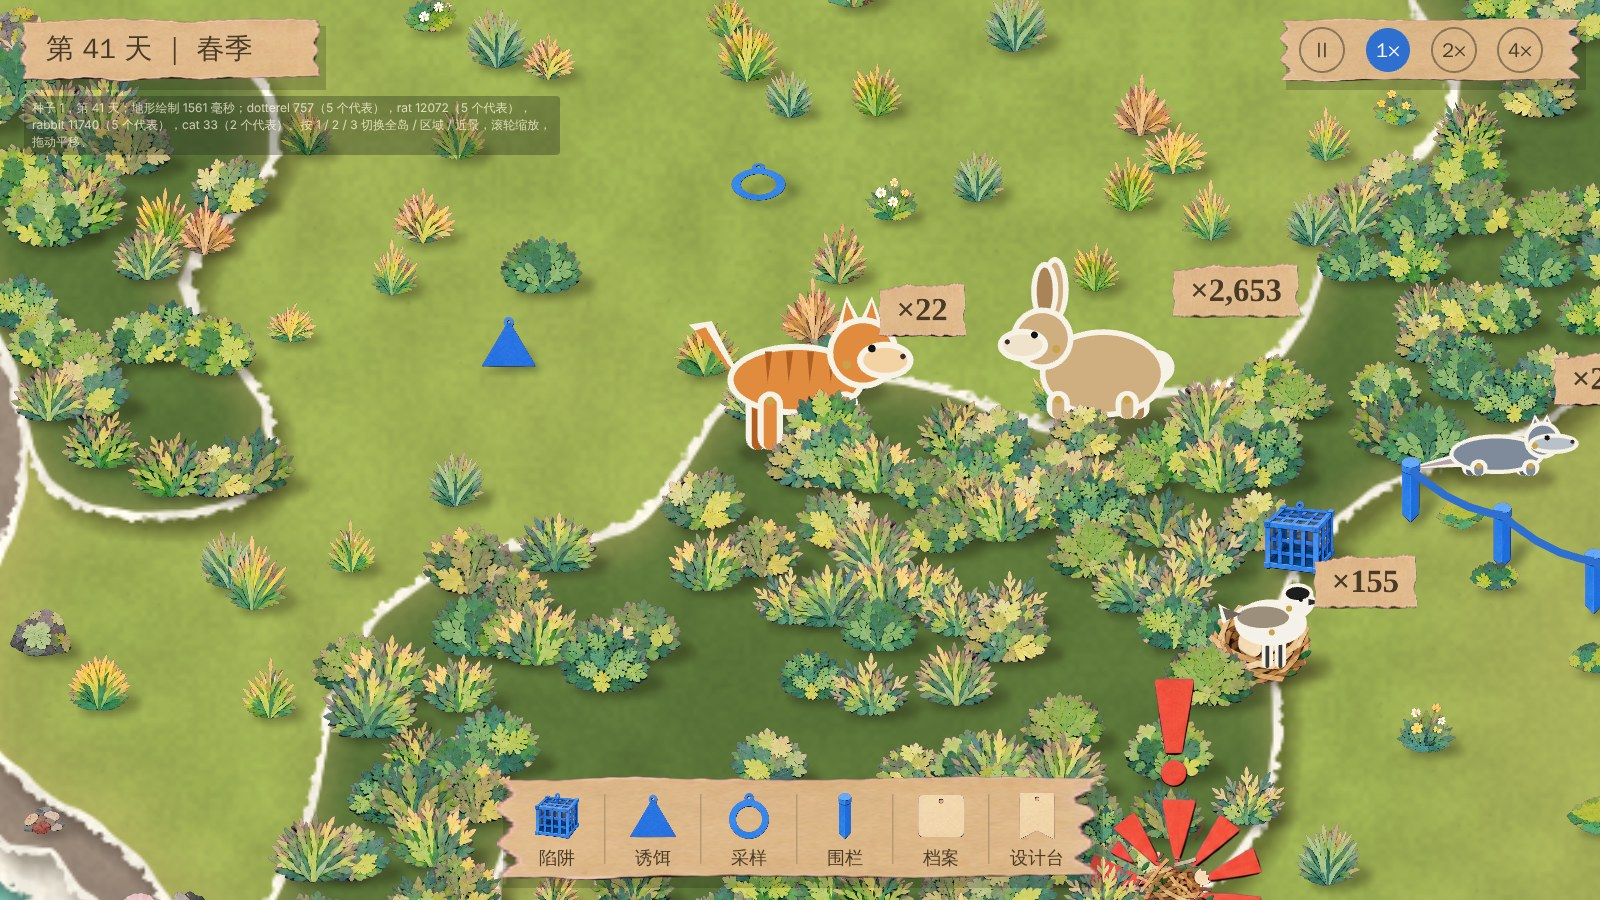
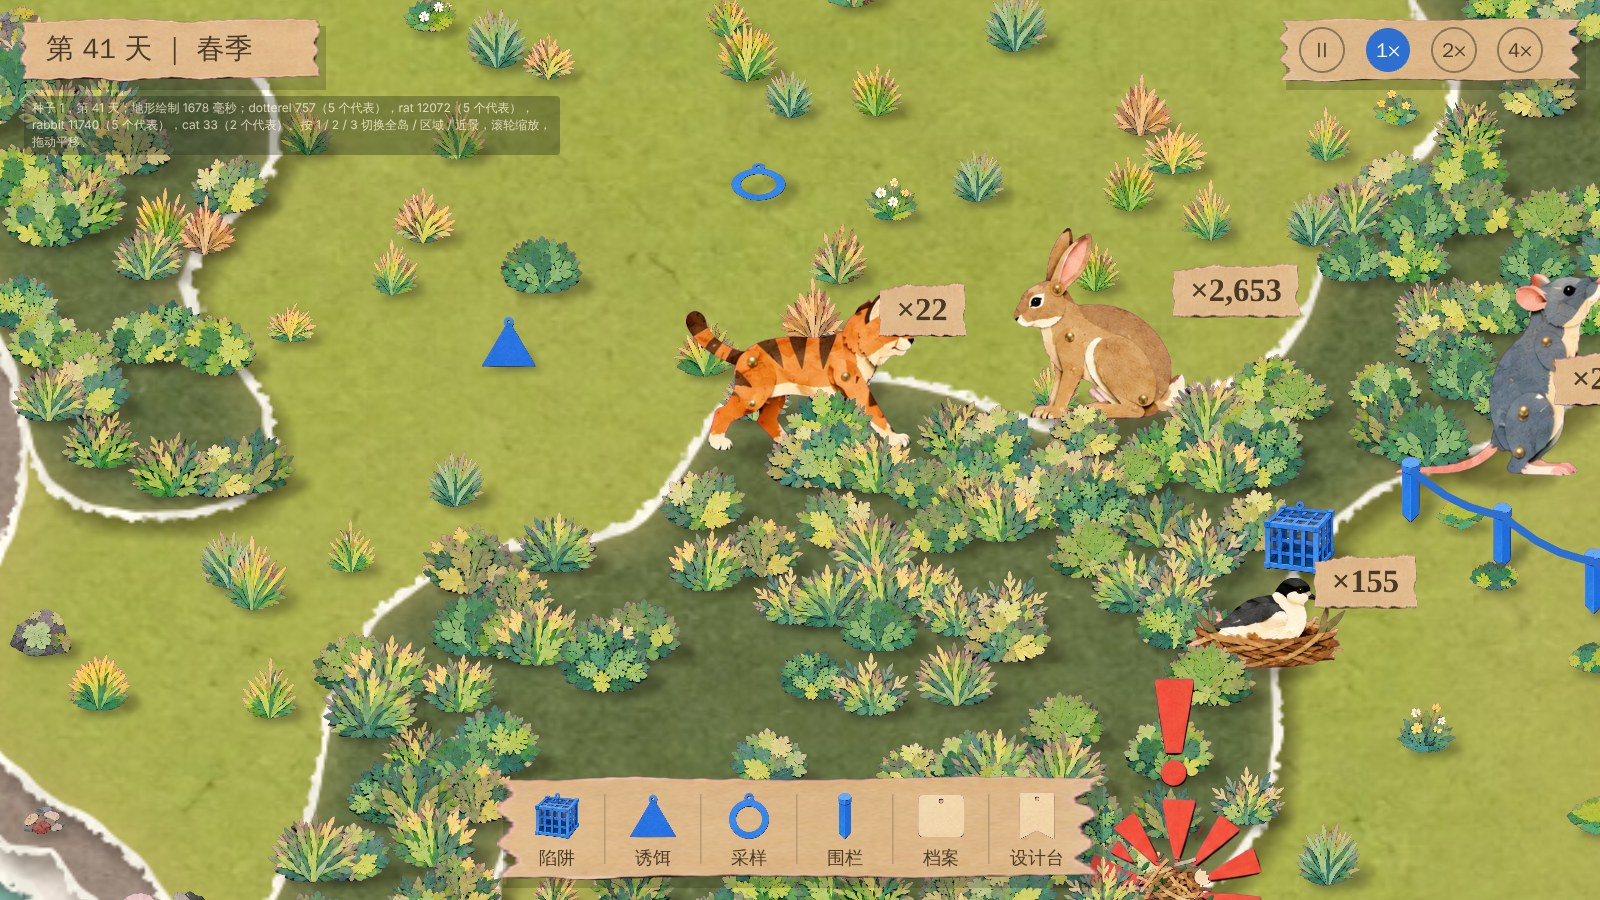
剪纸 demo 接入 P7 整只剪纸动物和 P4 纸纹 (#51)
* 剪纸 demo 接入 P7 整只剪纸动物

- 代表单位改用 P7 的剪纸（五个姿势随机选；鸟一半趴巢）；按剪纸面积统一缩放
- 切图脚本：可调合并间隙；manifest 记录每个素材的不透明像素数
- 更新 demo 截图和 NOTES

Claude-Session: https://claude.ai/code/session_01B6vNgBJfxmFPXerfhdCyw5

* 剪纸 demo 接入 P4 纸纹

Claude-Session: https://claude.ai/code/session_01B6vNgBJfxmFPXerfhdCyw5

---------

diff --git a/src/proto/paper/main.ts b/src/proto/paper/main.ts
@@ -37,11 +37,13 @@ async function loadPalette(): Promise<Palette> {
   const texs: PaperTex[] = colors.map((hex, i) => {
     const t = p4?.tex[Math.floor(i / 3)]?.[i % 3];
     if (!t) return proceduralPaper(hex, 100 + i);
-    const size = 256;
+    const size = 512;
     const cv = document.createElement('canvas');
     cv.width = cv.height = size;
     const ctx = cv.getContext('2d')!;
-    ctx.drawImage(t.source.resource as CanvasImageSource, 0, 0, size, size);
+    // 四边各裁掉一点，去掉切图时残留的品红边。
+    const inset = 8;
+    ctx.drawImage(t.source.resource as CanvasImageSource, inset, inset, t.width - 2 * inset, t.height - 2 * inset, 0, 0, size, size);
     return imagePaper(ctx.getImageData(0, 0, size, size).data, size);
   });
   return {
@@ -56,6 +58,17 @@ async function loadPalette(): Promise<Palette> {
     rim: proceduralPaper(0xf7f2e6, 121),
   };
 }
+
+/** P7 里每种木偶在第几行，以及代表单位可以随机用的姿势（列）。 */
+const P7_ROW: Partial<Record<PuppetKind, number>> = { 'cat-orange': 0, 'cat-piebald': 1, bird: 2, rabbit: 3, rat: 4 };
+const P7_POSES: Partial<Record<PuppetKind, number[]>> = {
+  'cat-orange': [0, 1, 2, 3, 4],
+  'cat-piebald': [0, 1, 2, 3, 4],
+  bird: [0, 3],
+  rabbit: [0, 1, 2, 3, 4],
+  rat: [0, 1, 2, 3, 4],
+};
+const si = (id: string): number => [...id].reduce((a, ch) => a * 31 + ch.charCodeAt(0), 7) % 1000;
 
 async function main(): Promise<void> {
   const status = document.getElementById('status')!;
@@ -93,7 +106,7 @@ async function main(): Promise<void> {
   cv.getContext('2d')!.putImageData(new ImageData(painted.data, painted.width, painted.height), 0, 0);
   const paintMs = Math.round(performance.now() - t0);
 
-  const [P1, P2, P3, P5, P6] = await Promise.all(['P1', 'P2', 'P3', 'P5', 'P6'].map(loadSheet));
+  const [P1, P2, P3, P5, P6, P7] = await Promise.all(['P1', 'P2', 'P3', 'P5', 'P6', 'P7'].map(loadSheet));
   void P5;
 
   const app = new Application();
@@ -220,16 +233,32 @@ async function main(): Promise<void> {
     tokens.forEach((tk, j) => {
       const cx = (tk.x + 0.5) * PX;
       const cy = (tk.y + 0.5) * PX;
-      if (id === 'dotterel') {
-        if (nestTex) stick(nestTex[1 + (j % 2)]!, cx - len * 0.05, cy + len * 0.15, len * 0.95, false, cy - 1);
-      }
       const k: PuppetKind = id === 'cat' && j % 2 === 1 ? 'cat-piebald' : kind;
       const unit = new Container();
       unit.position.set(cx, cy);
       unit.zIndex = cy + 0.5;
-      const pup = drawPuppet(k, len);
-      if (j % 3 === 2 && id !== 'dotterel') pup.scale.x = -1;
-      unit.addChild(pup);
+      const flip = j % 3 === 2 && id !== 'dotterel';
+      // P7 整只剪纸：每个物种一行五个姿势；同一物种按站姿（第 0 个）统一缩放，换姿势大小不变。
+      // 按剪纸面积的平方根缩放，而不是按宽度：长尾巴、长耳朵不会让一个物种显得更小或更大。
+      const rowI = P7_ROW[k] ?? -1;
+      const row = P7?.tex[rowI];
+      if (row) {
+        const poses = P7_POSES[k]!;
+        // 鸟：偶数个代表趴在巢里（P7 自带巢），其余站在巢边。
+        const pose = id === 'dotterel' ? (j % 2 === 0 ? 3 : 0) : poses[Math.floor(rnd(j, si(id), 9) * poses.length)]!;
+        if (id === 'dotterel' && pose !== 3 && nestTex) stick(nestTex[1 + (j % 3 === 1 ? 1 : 0)]!, cx - len * 0.45, cy + len * 0.05, len * 0.8, false, cy - 1);
+        const area = P7!.rows[rowI]![0]![2] ?? (row[0]!.width / 1.65) ** 2;
+        const kk = (len * 0.79) / Math.sqrt(area);
+        const spr = new Sprite(row[pose]!);
+        spr.anchor.set(0.5, 1);
+        spr.scale.set(flip ? -kk : kk, kk);
+        unit.addChild(spr);
+      } else {
+        if (id === 'dotterel' && nestTex) stick(nestTex[1 + (j % 2)]!, cx - len * 0.05, cy + len * 0.15, len * 0.95, false, cy - 1);
+        const pup = drawPuppet(k, len);
+        if (flip) pup.scale.x = -1;
+        unit.addChild(pup);
+      }
       props.addChild(unit);
       iconScaled.push(unit);
       const sh = new Graphics().ellipse(cx + len * 0.06, cy + 1, len * 0.42, len * 0.1).fill(0x241a10);

diff --git a/scripts/art/slice_sheet.py b/scripts/art/slice_sheet.py
@@ -1,9 +1,9 @@
 """
 把 Lovart 生成的品红底素材表切成单个透明 PNG（剪纸 demo 用）。
 
-用法：python3 -I scripts/art/slice_sheet.py <素材表> <输出目录> [最大边长]
+用法：python3 -I scripts/art/slice_sheet.py <素材表> <输出目录> [最大边长] [合并间隙像素]
 做法：按"品红程度" min(R,B) - G 抠背景并去溢色；再按行、列的投影找出空隙，把每个素材裁出来。
-输出 <输出目录>/<行>_<列>.png 和 manifest.json（每行几个、每个的尺寸）。
+输出 <输出目录>/<行>_<列>.png 和 manifest.json（每行每个素材的 [宽, 高, 不透明像素数]）。
 """
 import json
 import os
@@ -49,7 +49,8 @@ def main() -> None:
     rgba = key_magenta(np.asarray(Image.open(src).convert('RGB')))
     fg = rgba[..., 3] > 128
     os.makedirs(out_dir, exist_ok=True)
-    gap = max(8, fg.shape[0] // 60)
+    # 间隙不超过这么多像素的内容算同一个素材（碎片、尾巴尖）；素材挨得近的表要调小。
+    gap = int(sys.argv[4]) if len(sys.argv) > 4 else max(8, fg.shape[0] // 60)
     manifest = []
     for r, (y0, y1) in enumerate(runs(fg.sum(axis=1), 3, gap)):
         band = fg[y0:y1]
@@ -62,7 +63,8 @@ def main() -> None:
             if scale < 1.0:
                 img = img.resize((max(1, round(img.width * scale)), max(1, round(img.height * scale))), Image.LANCZOS)
             img.save(os.path.join(out_dir, f'{r}_{c}.png'), optimize=True)
-            row.append([img.width, img.height])
+            area = int((np.asarray(img)[..., 3] > 128).sum())
+            row.append([img.width, img.height, area])
         manifest.append(row)
     with open(os.path.join(out_dir, 'manifest.json'), 'w') as f:
         json.dump(manifest, f)

diff --git a/art/incoming/lovart/paper/NOTES.md b/art/incoming/lovart/paper/NOTES.md
@@ -20,7 +20,9 @@
 - **代表单位**：
   - 每个物种按格子数量聚成几个代表，每格只归给最近的一个代表，所以数量签加起来正好等于总数；
   - 大小按体重的 0.12 次方压缩：鸟 2.6 格、鼠 3.0、兔 3.8、猫 4.3。
-  - 动物是代码画的占位剪纸木偶，等 P7 和参数化部件（V3）出来再换。
+  - 动物用 P7 整只剪纸（2026-10-22 起）：每只代表从五个姿势里随机选一个；鸟一半趴在巢里，一半站在巢边。
+  - 同一物种按站姿的剪纸面积统一缩放，避免长尾巴、长耳朵影响大小。
+  - P7 缺失时退回代码画的占位木偶。
 - **标记和界面**：P6 的笼子、三角、圆环、木桩加代码画的蓝绳，朱红警报配被毁的巢，界面底板是撕边纸条。
 - **确定性**：同一个种子画两次，除了左上角的耗时文字，像素完全一样。
 
@@ -29,17 +31,17 @@
 | 方面 | 现状 | 怎么补 |
 | --- | --- | --- |
 | 海岸分层、白边、投影 | 已经接近示意图 | 可以再加一层"海岸岩壁"的侧面 |
-| 纸纹 | 用代码生成的纸，偏平 | P4 纸纹放到 `public/proto/paper/P4/` 后自动换成真图 |
-| 草地底色 | 偏平、偏亮 | 换 P4；草地里加一层"草皮"小贴纸（P1 第 3 行）铺密 |
+| 纸纹 | 已换成 P4 真纸纹（镜像平铺，四边各裁 8 像素去品红边） | 纸纹本身不是无缝的，靠镜像平铺遮住接缝 |
+| 草地底色 | P4 草绿 + 植被量低时混枯色；早春偏黄绿 | 草地里加一层"草皮"小贴纸（P1 第 3 行）铺密 |
 | 草丛、灌丛 | 素材本身很好，数量够 | 变体越多越好；灌丛可以按大小分档 |
 | 地形立体感 | 示意图有岩石侧面和高差，代码里是平的 | 推演没有高程；要的话做成纯装饰的"台地边缘"贴纸 |
-| 动物 | 代码占位，比较简陋 | P7 整只剪纸，之后接 V3 参数化部件 |
-| 比例 | 压缩比例，看着合理 | 继续试玩调整 |
+| 动物 | P7 整只剪纸，质感和地形统一 | 之后接 V3 参数化部件；P7 的鸟嘴偏长，更像燕鸥，不像双斑鸻 |
+| 比例 | 压缩比例；站立的兔、直立的鼠显得偏大 | 继续试玩调整：按姿势再修正一次，或者现场只用低姿势 |
 | 光 | 只有投影，没有整体光感 | 加一层整体调色（暖色暗角），以后纪录片的光也从这里来 |
 
 ## 素材处理
 
-- 原图在 `raw/`（从聊天里拿到的 JPEG，P4 缺）。
+- 原图在 `raw/`（从聊天里拿到的 JPEG）。
 - 切图脚本：`python3 -I scripts/art/slice_sheet.py <素材表> public/proto/paper/<表名> [最大边长]`。
   - 它按品红抠背景、去溢色，再按行列空隙切出每个素材，并写 manifest.json。
   - 你上传 PNG 原图后，重新跑一遍即可。
